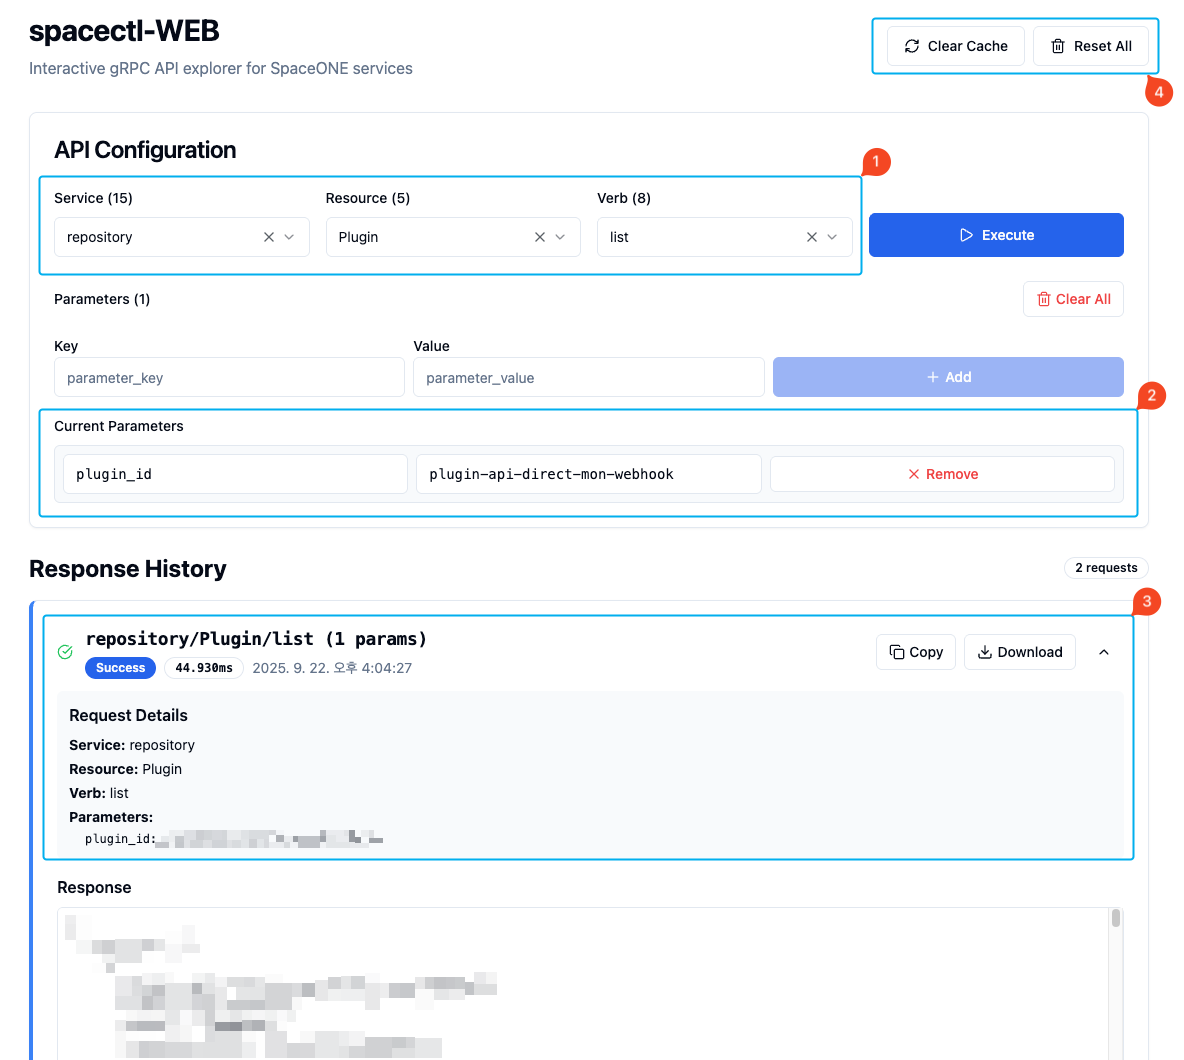
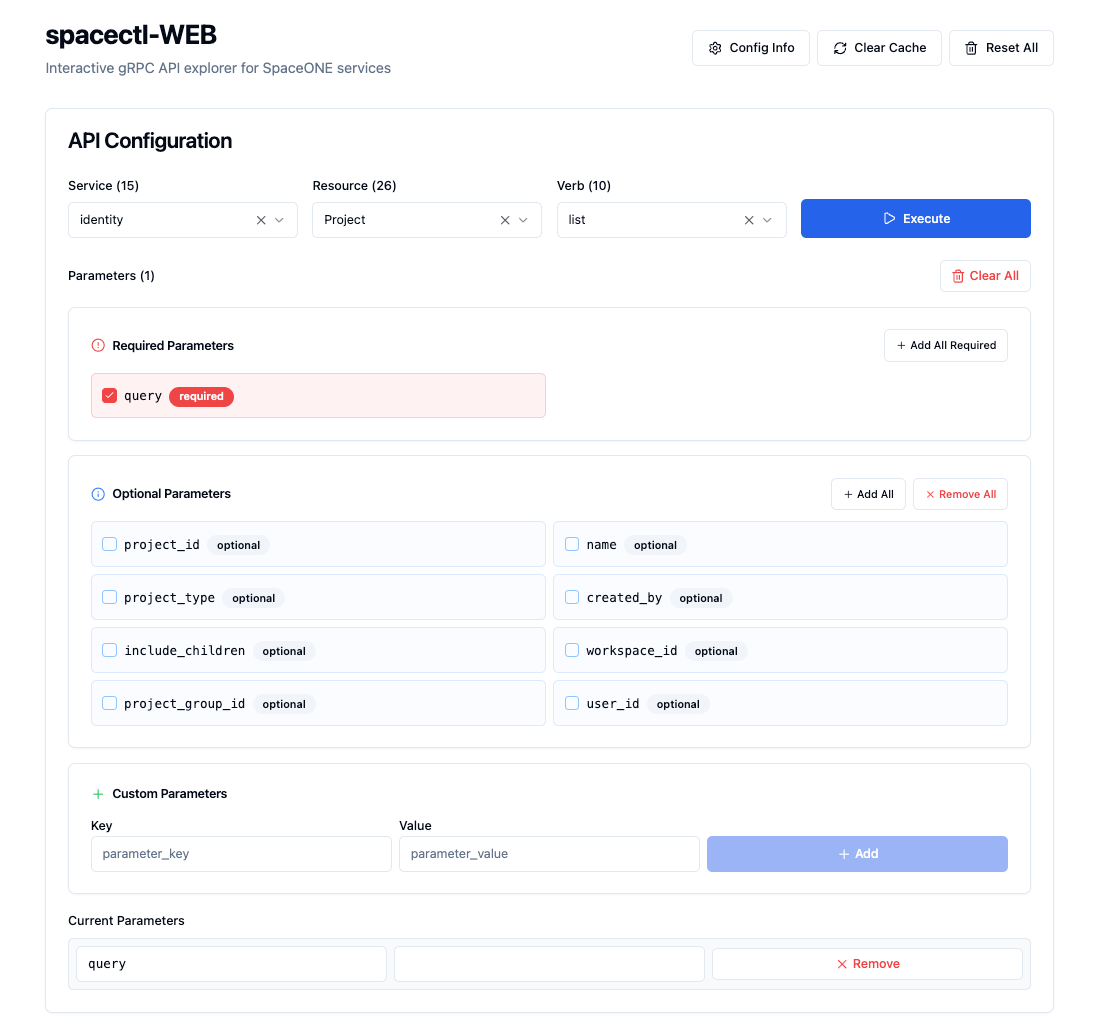
docs: update

diff --git a/README.md b/README.md
@@ -19,10 +19,23 @@ chmod +x spacectl-web
 
 # Run with your SpaceONE environment configuration
 ./spacectl-web --config ~/.spaceone/environments/<YOUR_ENV>.yml --port 8080
+
+# open browser http://localhost:8080
 ```
 
-Access the web interface at http://localhost:8080
+### Access the web interface at http://localhost:8080
+
+#### main page
 ![](docs/mainpage.png)
+
+#### config modal
+![](docs/configinfo.png)
+
+#### response card
+![](docs/response.png)
+![](docs/response_table.png)
+![](docs/response_json.png)
+
 
 ### Key Features
 
